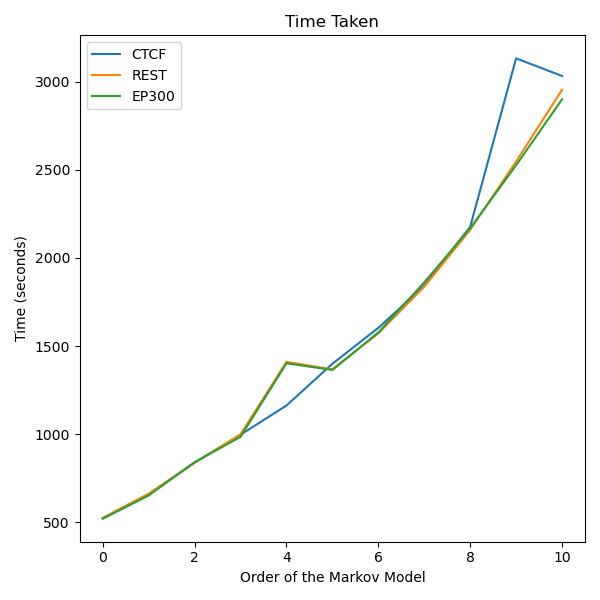
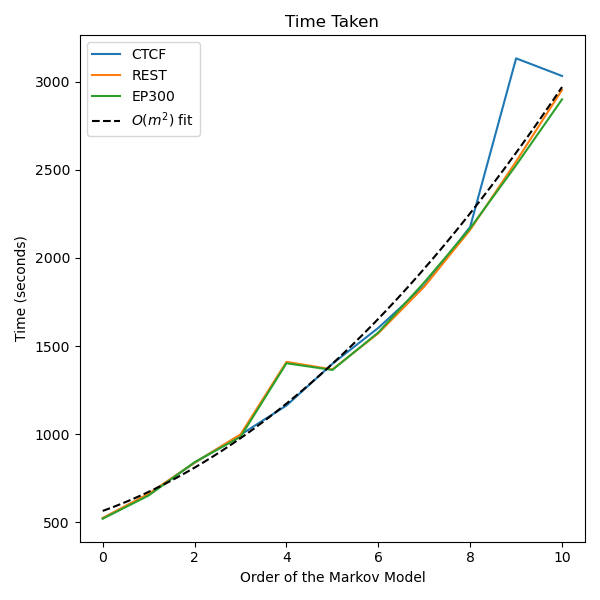
Added Time Complexity fit

diff --git a/pythonScripts/plot_trends.py b/pythonScripts/plot_trends.py
@@ -1,7 +1,12 @@
 from pathlib import Path
 from datetime import datetime
 import numpy as np
+from numpy import polyfit
 import matplotlib.pyplot as plt
+
+def quadratic(x, a, b, c):
+    return a*x*x + b*x + c
+quadratic = np.vectorize(quadratic)
 
 log_file = Path("data/MidSem_SuchetsRun_1/logs.txt")
 
@@ -13,8 +18,8 @@ with open(log_file, 'r') as f:
 logs = np.array(logs).reshape(11, 3, 2)
 
 # Time and Memory
-time = np.zeros((11, 3))
-memory = np.zeros((11, 3))
+time = np.zeros((3, 11))
+memory = np.zeros((3, 11))
 
 for m, temp in enumerate(logs):
     for tf, line in enumerate(temp):
@@ -34,11 +39,17 @@ for m, temp in enumerate(logs):
         second = int(line[1][15:17])
         end = datetime(year = year, month=month, day=day, hour=hour, minute=minute, second=second)
 
-        time[m][tf] = (end - start).total_seconds() # in seconds
-        memory[m][tf] = int(line[1].split(' ')[-2])/(1024*1024) # in MB
+        time[tf][m] = (end - start).total_seconds() # in seconds
+        memory[tf][m] = int(line[1].split(' ')[-2])/(1024*1024) # in MB
 
+X = np.linspace(0, 10, 1000)
 plt.figure(0, figsize=(6,6))
-plt.plot(range(11), time, label = ['CTCF', 'REST', 'EP300'])
+
+plt.plot(range(11), time.T, label = ['CTCF', 'REST', 'EP300'])
+
+avg_time_complexity = np.polyfit(range(11), time.mean(axis=0), deg=2)
+plt.plot(X, quadratic(X, *avg_time_complexity), 'k--', label = f"$O(m^2)$ fit")
+
 plt.title("Time Taken")
 plt.xlabel("Order of the Markov Model")
 plt.ylabel("Time (seconds)")
@@ -47,7 +58,7 @@ plt.tight_layout()
 plt.savefig(Path("data/MidSem_SuchetsRun_1/TimeTaken.png"))
 
 plt.figure(1, figsize=(6,6))
-plt.plot(range(11), memory, label = ['CTCF', 'REST', 'EP300'])
+plt.plot(range(11), memory.T, label = ['CTCF', 'REST', 'EP300'])
 plt.title("Space Used")
 plt.xlabel("Order of the Markov Model")
 plt.ylabel("Memory (MB)")
